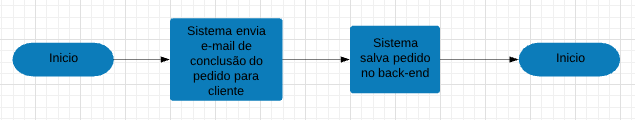
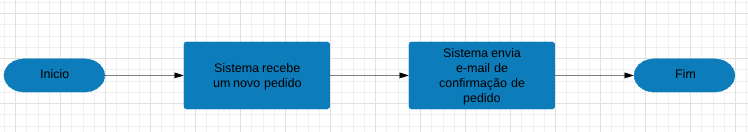
Atualiza documentação

Changed region(s): [[0.0, 0.15, 1.0, 0.85], [0.3291, 0.725, 0.389, 0.8]]

diff --git a/README.md b/README.md
@@ -59,7 +59,7 @@ A ferramenta possui características já experienciada pelo time e o conheciment
 Devido a alta demanda por processos informatizados a ferramenta se faz necessária tanto a organização quanto aos usuários
 
 ### Viabilidade técnica
-O time ja possui experiência nas áreas e o devido conhecimento necessário para trabalhar com a tecnologias utilizadas, que a principio serão HTML, CSS, JavaScript, C#, MySQL, PHP <br />
+O time ja possui experiência nas áreas e o devido conhecimento necessário para trabalhar com a tecnologias utilizadas, que a principio serão HTML, CSS, JavaScript, C#, MySQL, PHP, VueJS, Ruby, Capybara, Postman, Cucumber e Gherkin.  <br />
 Não há necessidade de gastos visando a baixa necessidade de recursos do sistema e a existência de tecnologias gratuitas que facilitam a conclusão da mesma
 
 ### Viabilidade de cronograma
@@ -129,33 +129,141 @@ Dado os requisitos levantados e a ampla possibilidade de adequações sistema pa
 **Em quais redes sociais ele interage**: *Facebook, Instagram* <br />
 **Qual as dores da persona**: *Problemas com a gestão de seu négocio que está iniciando* <br />
 
-### Estratégia de Teste
+# Fluxograma de processos
+## O fluxo do sistema de resume da seguinte maneira<br />
+![Overview do fluxograma](/docs/images/fluxograma_processos.png)
+
+## Pedido
+### A primeira etapa do sistema é relacionada ao pedido<br />
+![Overview do geração do pedido](/docs/images/pedido.png)
+
+## Fazer Pedido <br />
+### Um pedido se resume em escolher o tamanho da pizza e os sabores<br />
+![Adicionar combo ao carrinho](/docs/images/fazer_pedido.png)
+
+## Gerenciar carrinho <br />
+### Após serem feitos os pedidos, os mesmos podem ser gerenciados no carrinho<br />
+![Adicionar pizza avulsa ao carrinho](/docs/images/gerenciar_carrinho.png)
+
+## Selecionar método de pagamento <br />
+### Após confirmação dos pedido deve ser feito a seleção da forma de pagamento <br />
+![Finalizar o pedido](/docs/images/selecionar_metodo_de_pagamento.png)
+
+## Enviar e-mail
+### Após a conclusão do pedido o sistema irá enviar um e-mail ao cliente<br />
+![Confirmação do pedido](/docs/images/enviar_email.png)
+
+## Gerenciar pedidos
+### Após a conclusão do pedido, o mesmo também irá ser adicionado ao portal do dono da pizzaria o permitindo remove-lo após a conclusão do mesmo<br />
+![Gerenciamento de pedido](/docs/images/gerenciar_pedido.png)
+
+# Modelo lógico
+![Adicionar combo ao carrinho](/docs/images/modelo_logico.png)
+
+# Modelo físico
+
+1. Cliente<br />
+
+| Nome do campo | Tipo de dados |
+| ---           | ---           |
+| id            | int           |
+| clientId      | int           |
+| nome          | string        |
+| cpf           | string        |
+| endereco      | string        |
+| telefone      | string        |
+| email         | varchar       |
+| ultimaCompra  | datetime      |
+| dataInclusao  | datetime      |
+| dataAlteracao | datetime      |
+| dataExclusão  | datetime      |
+| ativo         | bolean        |
+
+2. Pedido<br />
+
+| Nome do campo   | Tipo de dados |
+| ---             | ---           |
+| Id              | int           |
+| PedidoId        | int           |
+| cliente_Id      | int           |
+| DataInclusao    | datetime      |
+| DataAlteracao   | datetime      |
+| DataExclusao    | datetime      |
+| Ativo           | boolean       |
+| Status          | int           |
+| entrega_EntregaId | int         |
+| pagamento_PagamentoId | int     |
+
+3. Entrega<br />
+
+| Nome do campo   | Tipo de dados |
+| ---             | ---           |
+| EntregaId       | int           |
+| Cep             | string        |
+| Rua             | string        |
+| Numero          | string        |
+| Nome            | string        |
+| Email           | string        |
+| Telefone        | string        |
+| Complemento     | string        |
+
+4. Item<br />
+
+| Nome do campo   | Tipo de dados |
+| ---             | ---           |
+| ItemId          | int           |
+| Tipo            | decimal       |
+| Tamanho         | bigint        |
+| Borda           | bigint        |
+| Valor           | text          |
+| Sabor           | decimal       |
+| Pedido_Id       | bigint        |
+
+5. Sabores<br />
+
+| Nome do campo   | Tipo de dados |
+| ---             | ---           |
+| id              | int           |
+| Nome            | string        |
+| Quantidade      | int           |
+| Item_ItemId     | int           |
+
+6. Pagemento<br />
+
+| Nome do campo   | Tipo de dados |
+| ---             | ---           |
+| PagamentoId     | int           |
+| Total           | double        |
+| Tipo            | string        |
+| Bandeira        | string        |
+| Metodo          | string        |
+| troco           | double        |
+
+# Estratégia de Teste
 Testes funcionais foram realizados na aplicação para certificar que ela está apta a realizar as funções da qual foi desenvolvida para fazer.</br>
 
 Na parte do BackEnd da aplicação, foram realizados testes sobre a API, garantido que suas chamadas, e seus endpoints estão satisfazendo os requisitos técnicos e funcionais da aplicação. Os recursos foram testados de forma isolada, visando garantir a funcionalidade de cada recurso por si só.</br>
 
 No FrontEnd foram realizados testes integrados, para garantir os fluxos principais do seu início ao fim, de funcionamento da aplicação.
 
-##### Tecnologias utilizadas para teste:
+### Tecnologias utilizadas para teste:
 JavaScript, Ruby, Capybara, Postman, Cucumber e Gherkin.
 
-### Gerência de Requisitos:
+## Gerência de Requisitos:
 
-###### GRE1:
+### GRE1:
 O escopo do projeto foi definido em conjunto entre o PO e Analista de Sistemas e o time de desenvolvimento, visando atender as necessidades de uma Pizzaria que tem como necessidade atender seus clientes de forma online, em que a interação humana com o usuário seja necessária apenas no processo de entrega do pedido.
 
-###### GRE2:
+### GRE2:
 Os requisitos foram avaliados levando em consideração o prazo para entrega do projeto e os recursos disponíveis para a equipe, a equipe se comprometeu levando em consideração sua disponibilidade de equipamentos, seu conhecimento nas tecnologias necessárias para o comprometimento da meta e sua curva de aprendizagem nas mesmas, assim fixando uma quantidade de requisitos plausíveis para o produto sem correr o risco de comprometer a qualidade do produto final.
 
-###### GRE4:
+### GRE3:
+
+
+### GRE4:
 O projeto foi divido em pequenas entregas separadas por user stories, cada uma atende uma quantidade de requisitos pré-definidos. Essas user stories foram dividas pela equipe de desenvolvimento em Tarefas, quando todas as tarefas relacionadas a uma user storie eram concluídas, os testes relacionados eram executados e as regras de negócio e os requisitos eram dados como finalizados, ou tarefas de bug fix eram abertas e a user storie ficava definida como In Progress até a conclusão das correções necessárias, nessa etapa os requisitos são revistados e validados pelo Analista.
 
-###### GRE5:
+### GRE5:
 Mudanças de requisitos técnicos podem ser levantadas pela equipe de desenvolvimento a qualquer momento, e a decisão de gerar novas Stories a partir delas ficam a cargo do Analista. Caso alguma regra de negócio seja alterada, o Analista precisa escrever novas Stories, e negociar com o time de desenvolvimento um momento para atendê-las.
-
-
-
-### [Fluxograma de processos](/docs/fluxograma_processos.md)
-### [Diagrama conceitual](/docs/diagrama_conceitual.md)
 
 ### [Trello](https://trello.com/b/oLR8NrvE/esii)

diff --git a/CHANGELOG.md b/CHANGELOG.md
@@ -4,7 +4,56 @@ Todas as alterações notáveis deste projeto serão documentadas neste arquivo.
 O formato é baseado em [Keep a Changelog](https://keepachangelog.com/en/1.0.0/),
 e este projeto segue o [Semantic Versioning](https://semver.org/spec/v2.0.0.html).
 
-## [Unreleased]
+## [2.0.1] - 27-11-2019
+### Added
+- MPSBR: Gerência de Requisitos
+
+### Changed
+- Viabilidade técnica: tecnologias utilizadas
+- Fluxograma de processos
+- Modelo lógico
+- Modelo físico
+
+### Removed
+- Diagrama conceitual
+
+## [2.0.0] - 13-11-2019
+### Added
+- Tela de escolha de método de pagamento
+- Tela do carrinho
+- Tela de visualização de pedidos
+- Envio automático de e-mail
+- Tabela de sabores
+
+### Changed
+- Tela de entrega dos pedidos movida para o inicio do fluxo
+- Tela de escolha do tamanho da pizza avulsa movida para a segunda tela do fluxo
+- Tela de escolha dos sabores da pizza avulsa movida para a terceira tela do fluxo
+- Tela de conclusão do pedido movida para a quarta tela do fluxo
+- Tabela de pagamento para suportar troco
+
+### Removed
+- Tela inicial de seleção do tipo da pizza
+- Tela de escola de quantidade de sabores da pizza avulsa
+- Tela de escolha do combo
+
+## [1.0.0] - 16-10-2019
+### Added
+- Tela inicial de seleção do tipo da pizza
+- Tela de escolha do tamanho da pizza avulsa
+- Tela de escola de quantidade de sabores da pizza avulsa
+- Tela de escolha dos sabores da pizza avulsa
+- Tela de conclusão do pedido
+- Tela de entrega dos pedidos
+- Tela de escolha do combo
+- Endpoint de cliente
+- Endpoint de Pedido
+- Tabela de cliente
+- Tabela de pedido
+- Tabela de entrega
+- Tabela de item
+- Tabela de sabores
+- Tabela de pagamento
 
 ## [0.2.0] - 25-09-2019
 ### Added
